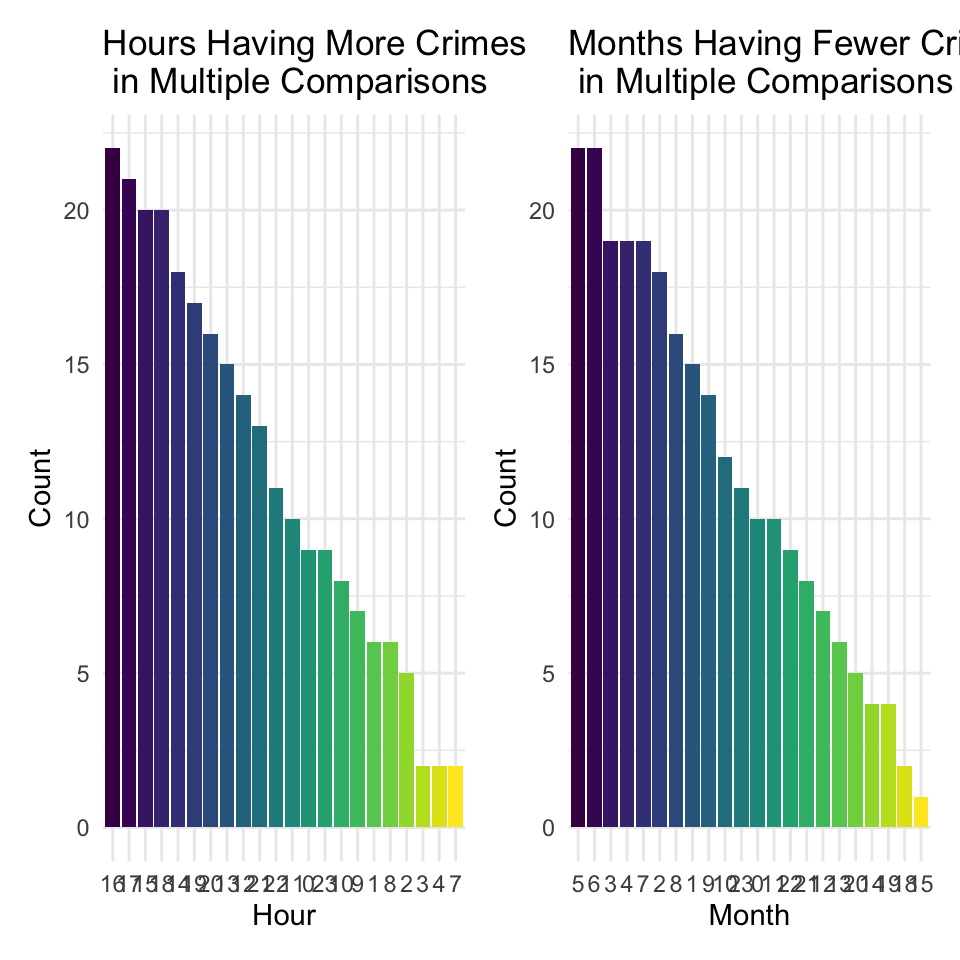
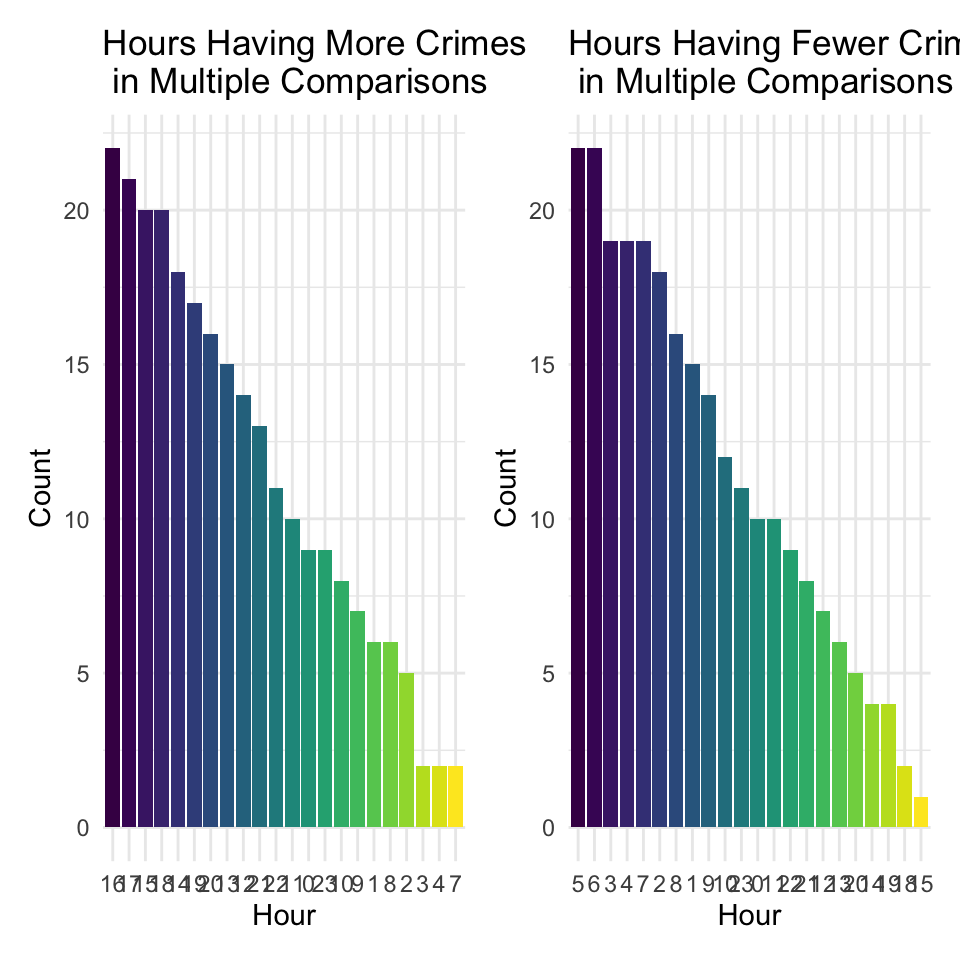
I add some interpretations about how to analize the detailed difference among hours.

Changed region(s): [[0.5938, 0.0312, 1.0, 0.0625], [0.7188, 0.9375, 0.8125, 0.9688]]

diff --git a/code/Hypothesis-testing-and-linear-model.html b/code/Hypothesis-testing-and-linear-model.html
@@ -603,8 +603,13 @@ aov_hour %&gt;%
 </tr>
 </tbody>
 </table>
-<p>There are also significant difference in the mean number of crimes
-between different hours in one day.</p>
+<p>Firstly, we use Turkey methods to analyze the ANOVA model, select the
+variables which p-value are smaller than 0.05, and arrange them by adj
+p_value. Then, we separate the contrast to A and B and add two variables
+“high” and “low” depending on whether estimate is larger than 0 to
+decide how A and B to fit high and low. Finally, we make a two panel
+plot to show the order of the hours become “high” and “low” in the
+process of comparing.</p>
 <pre class="r"><code>hour_posthoc &lt;- TukeyHSD(aov_hour, conf.level = .95) %&gt;% 
   broom::tidy() %&gt;% 
   filter(adj.p.value &lt; 0.05) %&gt;% 
@@ -626,11 +631,13 @@ aov_fig3 &lt;- hour_group %&gt;%
 aov_fig4 &lt;- hour_group %&gt;% 
   ggplot(aes(x = low, fill = low)) +
   geom_bar(stat = &quot;count&quot;) +
-  labs(x = &quot;Month&quot;, y = &quot;Count&quot;,title = 
-         &quot;Months Having Fewer Crimes \n in Multiple Comparisons&quot;) + guides(fill = &quot;none&quot;)
+  labs(x = &quot;Hour&quot;, y = &quot;Count&quot;,title = 
+         &quot;Hours Having Fewer Crimes \n in Multiple Comparisons&quot;) + guides(fill = &quot;none&quot;)
 
 aov_fig3 + aov_fig4</code></pre>
 <p><img src="Hypothesis-testing-and-linear-model_files/figure-html/unnamed-chunk-4-1.png" width="60%" /></p>
+<p>By the result above, there are also significant difference in the
+mean number of crimes between different hours in one day.</p>
 <p>The result corresponded with the findings in EDA part. The most
 dangerous hour is 12:00 - 21:00, all of them are at high ranks in the
 left figure. Comparatively, 1:00 - 9:00 is the most peaceful time. But
